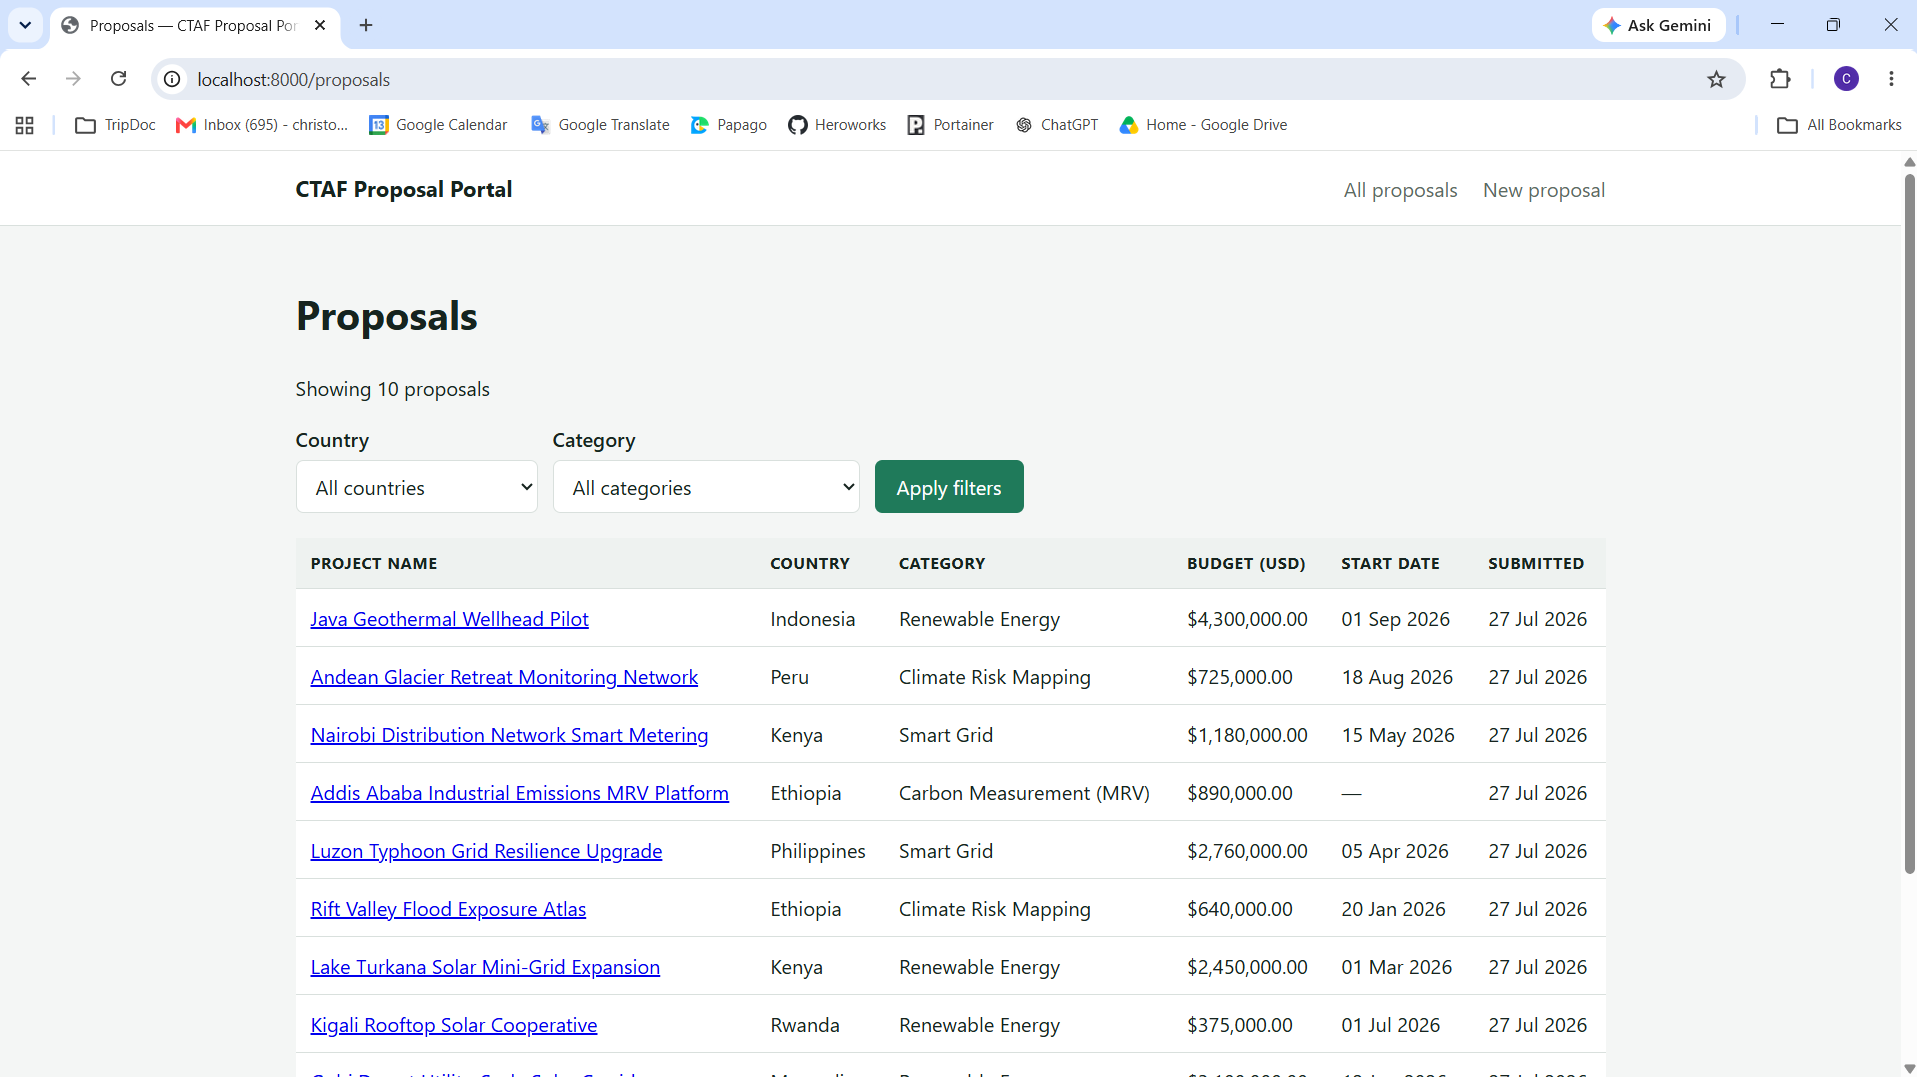
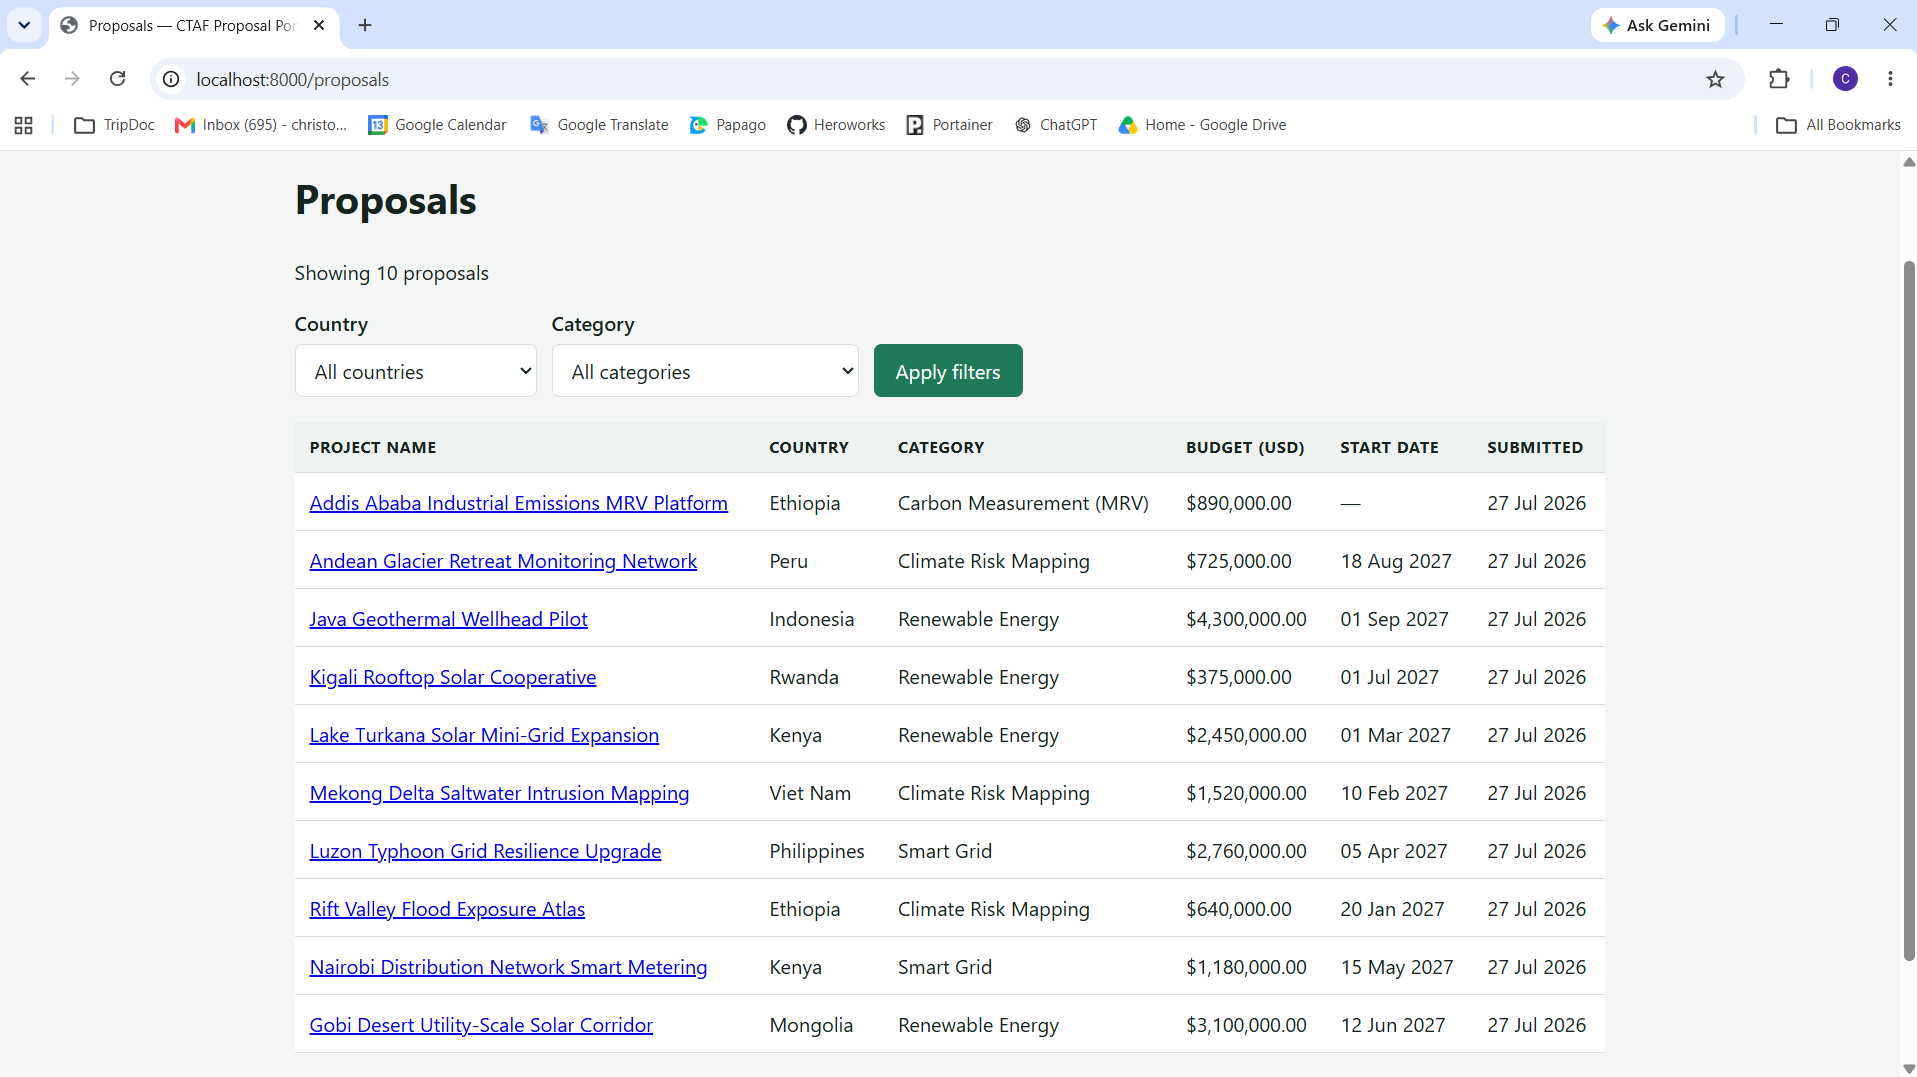
Update README and architecture documents: revise live demo section, enhance design decisions, and update seed data start dates to 2027

diff --git a/scripts/seed.py b/scripts/seed.py
@@ -16,10 +16,14 @@ from app.services.proposal import create_proposal
 # reproducible. Every country code below must be a real GGGI member -
 # checked against app/domain/data/gggi_members.txt rather than assumed,
 # since a plausible-looking code (India, for instance) can still be
-# wrong. Start dates are in 2026, forward of this document's date, so
-# the data reads as a live pipeline rather than a historical archive;
-# one entry has no start date at all, exercising that optional field on
-# both the list and detail pages.
+# wrong. Start dates are in 2027, forward of the submitted date
+# (`created_at`, stamped by Postgres at insert time), so the data reads
+# as a live pipeline rather than a historical archive; one entry has no
+# start date at all, exercising that optional field on both the list
+# and detail pages. Nothing currently stops a start date from
+# predating the submitted date - see the "future additions" note in
+# the README and §7 of the architecture doc - so this ordering is kept
+# true by convention here rather than by a validation rule.
 #
 # Countries: KE x2, ET x2, RW, VN, ID, PH, MN, PE - eight distinct
 # countries, two repeated so filtering by country visibly returns more
@@ -32,7 +36,7 @@ SEED_PROPOSALS: list[dict[str, object]] = [
         "country": "KE",
         "category": "renewable_energy",
         "budget_usd": "2450000.00",
-        "start_date": "2026-03-01",
+        "start_date": "2027-03-01",
         "summary": (
             "Expands the existing Lake Turkana mini-grid with an "
             "additional 8 MW of solar generation and battery storage, "
@@ -45,7 +49,7 @@ SEED_PROPOSALS: list[dict[str, object]] = [
         "country": "KE",
         "category": "smart_grid",
         "budget_usd": "1180000.00",
-        "start_date": "2026-05-15",
+        "start_date": "2027-05-15",
         "summary": (
             "Deploys 40,000 smart meters across three Nairobi "
             "distribution substations, giving the utility real-time "
@@ -58,7 +62,7 @@ SEED_PROPOSALS: list[dict[str, object]] = [
         "country": "ET",
         "category": "climate_risk_mapping",
         "budget_usd": "640000.00",
-        "start_date": "2026-01-20",
+        "start_date": "2027-01-20",
         "summary": (
             "Produces a high-resolution flood exposure atlas for the "
             "Ethiopian Rift Valley, combining satellite rainfall data "
@@ -84,7 +88,7 @@ SEED_PROPOSALS: list[dict[str, object]] = [
         "country": "RW",
         "category": "renewable_energy",
         "budget_usd": "375000.00",
-        "start_date": "2026-07-01",
+        "start_date": "2027-07-01",
         "summary": (
             "Finances a rooftop solar cooperative across 600 households "
             "and small workshops in Kigali, pooling purchasing power to "
@@ -96,7 +100,7 @@ SEED_PROPOSALS: list[dict[str, object]] = [
         "country": "VN",
         "category": "climate_risk_mapping",
         "budget_usd": "1520000.00",
-        "start_date": "2026-02-10",
+        "start_date": "2027-02-10",
         "summary": (
             "Maps seasonal saltwater intrusion across the Mekong "
             "Delta's rice-growing provinces using river-mouth sensors "
@@ -109,7 +113,7 @@ SEED_PROPOSALS: list[dict[str, object]] = [
         "country": "ID",
         "category": "renewable_energy",
         "budget_usd": "4300000.00",
-        "start_date": "2026-09-01",
+        "start_date": "2027-09-01",
         "summary": (
             "Pilots a 5 MW wellhead geothermal unit on an underused "
             "exploration well in West Java, testing a lower-cost "
@@ -122,7 +126,7 @@ SEED_PROPOSALS: list[dict[str, object]] = [
         "country": "PH",
         "category": "smart_grid",
         "budget_usd": "2760000.00",
-        "start_date": "2026-04-05",
+        "start_date": "2027-04-05",
         "summary": (
             "Upgrades transmission towers and adds automated "
             "sectionalising switches across a typhoon-exposed Luzon "
@@ -135,7 +139,7 @@ SEED_PROPOSALS: list[dict[str, object]] = [
         "country": "MN",
         "category": "renewable_energy",
         "budget_usd": "3100000.00",
-        "start_date": "2026-06-12",
+        "start_date": "2027-06-12",
         "summary": (
             "Develops a 150 MW utility-scale solar corridor across "
             "degraded Gobi Desert grazing land unsuitable for "
@@ -150,7 +154,7 @@ SEED_PROPOSALS: list[dict[str, object]] = [
         "country": "PE",
         "category": "climate_risk_mapping",
         "budget_usd": "725000.00",
-        "start_date": "2026-08-18",
+        "start_date": "2027-08-18",
         "summary": (
             "Installs automated monitoring stations on retreating "
             "Andean glaciers feeding Lima's water supply, providing "

diff --git a/docs/architecture-and-implementation-plan.md b/docs/architecture-and-implementation-plan.md
@@ -2990,16 +2990,16 @@ five seconds.
 
   | Project name | Country | Category | Budget USD | Start date |
   |---|---|---|---|---|
-  | Lake Turkana Solar Mini-Grid Expansion | KE | renewable_energy | 2450000.00 | 2026-03-01 |
-  | Nairobi Distribution Network Smart Metering | KE | smart_grid | 1180000.00 | 2026-05-15 |
-  | Rift Valley Flood Exposure Atlas | ET | climate_risk_mapping | 640000.00 | 2026-01-20 |
+  | Lake Turkana Solar Mini-Grid Expansion | KE | renewable_energy | 2450000.00 | 2027-03-01 |
+  | Nairobi Distribution Network Smart Metering | KE | smart_grid | 1180000.00 | 2027-05-15 |
+  | Rift Valley Flood Exposure Atlas | ET | climate_risk_mapping | 640000.00 | 2027-01-20 |
   | Addis Ababa Industrial Emissions MRV Platform | ET | mrv | 890000.00 | *(none)* |
-  | Kigali Rooftop Solar Cooperative | RW | renewable_energy | 375000.00 | 2026-07-01 |
-  | Mekong Delta Saltwater Intrusion Mapping | VN | climate_risk_mapping | 1520000.00 | 2026-02-10 |
-  | Java Geothermal Wellhead Pilot | ID | renewable_energy | 4300000.00 | 2026-09-01 |
-  | Luzon Typhoon Grid Resilience Upgrade | PH | smart_grid | 2760000.00 | 2026-04-05 |
-  | Gobi Desert Utility-Scale Solar Corridor | MN | renewable_energy | 3100000.00 | 2026-06-12 |
-  | Andean Glacier Retreat Monitoring Network | PE | climate_risk_mapping | 725000.00 | 2026-08-18 |
+  | Kigali Rooftop Solar Cooperative | RW | renewable_energy | 375000.00 | 2027-07-01 |
+  | Mekong Delta Saltwater Intrusion Mapping | VN | climate_risk_mapping | 1520000.00 | 2027-02-10 |
+  | Java Geothermal Wellhead Pilot | ID | renewable_energy | 4300000.00 | 2027-09-01 |
+  | Luzon Typhoon Grid Resilience Upgrade | PH | smart_grid | 2760000.00 | 2027-04-05 |
+  | Gobi Desert Utility-Scale Solar Corridor | MN | renewable_energy | 3100000.00 | 2027-06-12 |
+  | Andean Glacier Retreat Monitoring Network | PE | climate_risk_mapping | 725000.00 | 2027-08-18 |
 
   Each entry also carries a `summary` of 120–280 characters written
   in the register of a real funding application — one or two
@@ -3875,6 +3875,16 @@ into the database, where concurrency cannot defeat it. The service
 check stays, because it produces the friendly message; the index
 becomes the backstop, caught as an `IntegrityError` and translated
 into the same `DuplicateProposalError`.
+
+**Rejecting a start date before the submitted date.** `start_date` is
+currently validated only for type — any date parses, including one
+earlier than `created_at`. A `field_validator` (or a service-layer
+check, since `created_at` is stamped by the database rather than
+known to Pydantic at parse time) comparing the two and raising the
+same validation-error path as the other `start_date` rules would
+close this. Left open for now because the seed data is consistent by
+construction — see `scripts/seed.py` — not because the database or the
+schema enforces it. This was found during live testing of the site
 
 **User accounts and per-user scoping.** The `owner_id` column already
 exists and is nullable. Adding session-based authentication, setting

diff --git a/README.md b/README.md
@@ -5,9 +5,14 @@ A small web application for the Climate Technology Accelerator Fund
 proposals, validated and stored in Postgres, then browsed, filtered,
 edited, and deleted. Built for assignment reference **INT_CTL015_E1**.
 
-**Live demo:** [gggi-proposal-task.onrender.com](https://gggi-proposal-task.onrender.com)
-*(hosted on Render's free tier — the instance spins down when idle, so
-the first request after a while can take up to a minute to load)*
+---
+
+## Live Demo
+
+**Website:** [gggi-proposal-task.onrender.com](https://gggi-proposal-task.onrender.com)
+
+*Hosted on Render's free tier — the instance spins down when idle, so
+the first request after a while can take up to a minute to load*
 
 ![The populated list page](docs/img/list-page.png)
 
@@ -127,11 +132,15 @@ the design specification this application was built from.
 
 ## Design decisions
 
+This web app was made with future extensions in mind. Therefore it was engineered so that future features could be easily added without changing too much of the core web app functionality. Below are some of the core design decisions made with all of the detailed design decisions in the [`docs/architecture-and-implementation-plan.md`](docs/architecture-and-implementation-plan.md).
+
+**Core Design Decisions:**
+
 **Proposals are shared, not per-user.** The assignment mentions no
 accounts or logins and asks for *all* submitted proposals to be
 displayed, so the app treats proposals as one shared collection, as
 would suit an internal review team. A nullable `owner_id` column
-exists so per-user scoping could be added later without rebuilding the
+exists in the web app DB so per-user scoping could be added later without rebuilding the
 table.
 
 **The country list is data, not code.** All 54 GGGI member states are
@@ -193,6 +202,9 @@ reach.
 - A partial unique index backstopping the application-level
   uniqueness check against a race between two simultaneous
   submissions.
+- Rejecting a planned start date that falls before the proposal's
+  submitted date — `start_date` is currently validated only for type,
+  not against `created_at`.
 - A proper error-tracking setup.
 
 > The full list, each with an estimate of the work involved, is in

diff --git a/docs/AI_PROMPTS.md b/docs/AI_PROMPTS.md
@@ -18,7 +18,7 @@ was:
 > me to solve the following task. Explain the tools that I would need
 > and what the process would be in building a version of this task
 > that would last in the long term, whose functionality could be
-> incrementally added to over time. It must not just be built with
+> incrementally added to over time. It must be built with
 > production in mind and must be scalable.
 >
 > Task:
@@ -35,11 +35,17 @@ implementation plan.
 
 I know how to code, but my true strength is understanding how systems
 work. I therefore spend most of my time on architectural documents to
-ensure the logic behind the code is sound.
+ensure the logic behind the code is sound. 
 
 [architecture-and-implementation-plan.md](architecture-and-implementation-plan.md)
 details exactly what is going to be built and exactly how it should be
 built.
+
+It also serves as very detailed documentation for the code base ensuring that:
+- The code can be full understood from the ground up (Logic --> actual code)
+- Errors that occur can be easily traced and fixed
+- Handing over goes smoothly since the entire system is well documented
+
 
 I arrived at this method of working with AI after trial and error at
 my last job, and found it to be one of the more effective ways to use
@@ -76,7 +82,7 @@ that may exist:
 
 Any errors found in the plan are sent to Claude to review and fix.
 This is an iterative process, repeated until no more major errors are
-found.
+found. Note that not all errors found are chosen to be fixed only the one's deemed necessary for the current version of the web application as some errors found can be trivial or even intentional depending on the current needs of the system. 
 
 ## 3. Implementation
 
@@ -88,7 +94,7 @@ prompt is used for essentially the rest of development:
 Also, the prompt below was used to ensure that the code is readable in
 case any sections need to be reviewed in the future:
 
-2. **"during coding ensure that all code is clearly commented so that
+2. **"During coding ensure that all code is clearly commented so that
    someone reading the code would know what the code does and the
    purpose of the code as well"**
 
